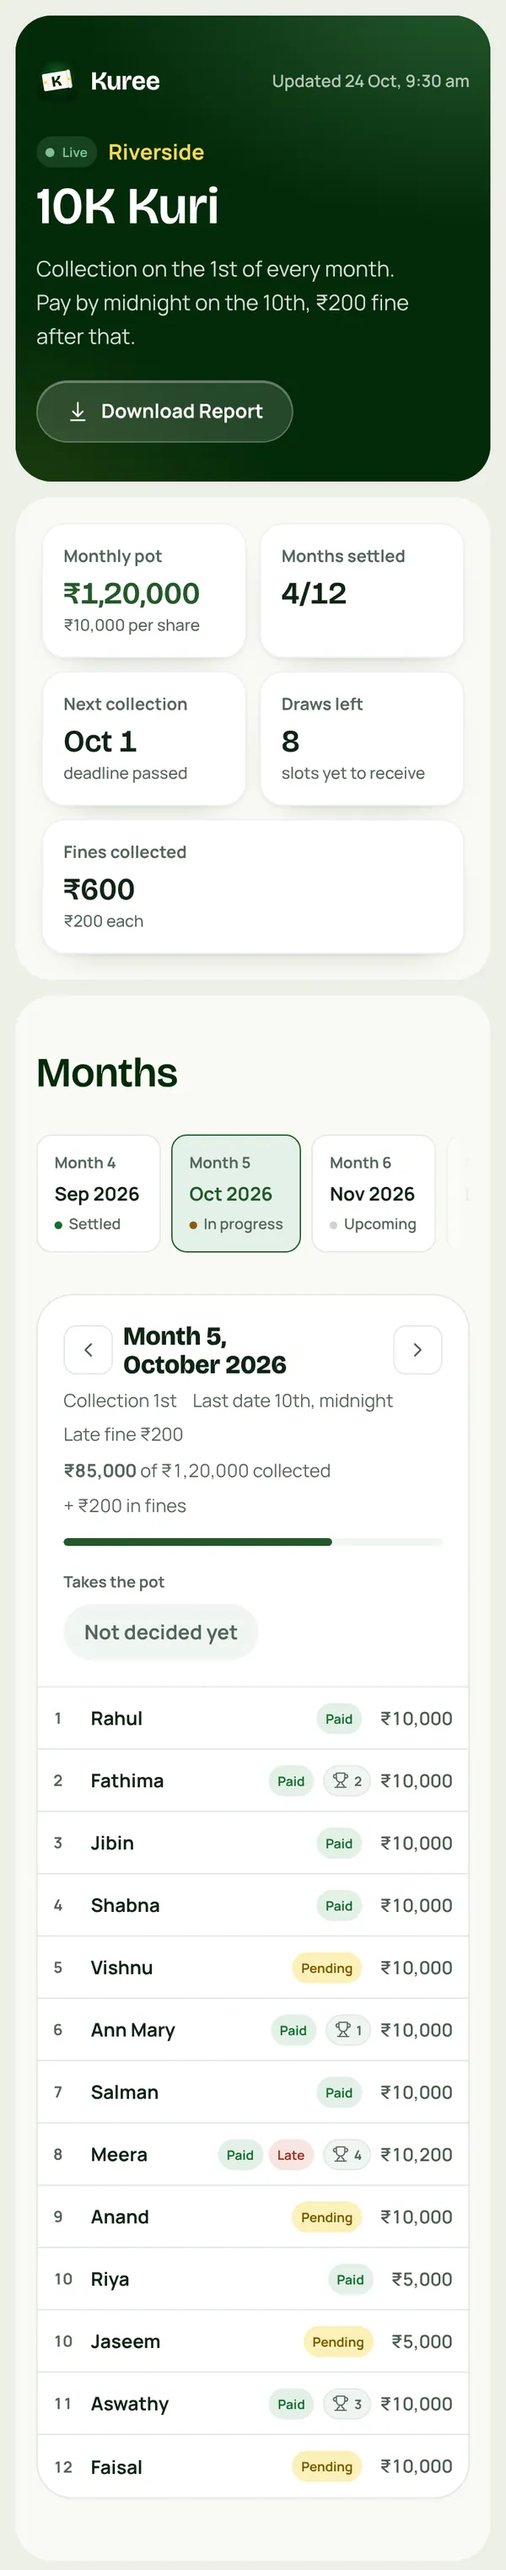
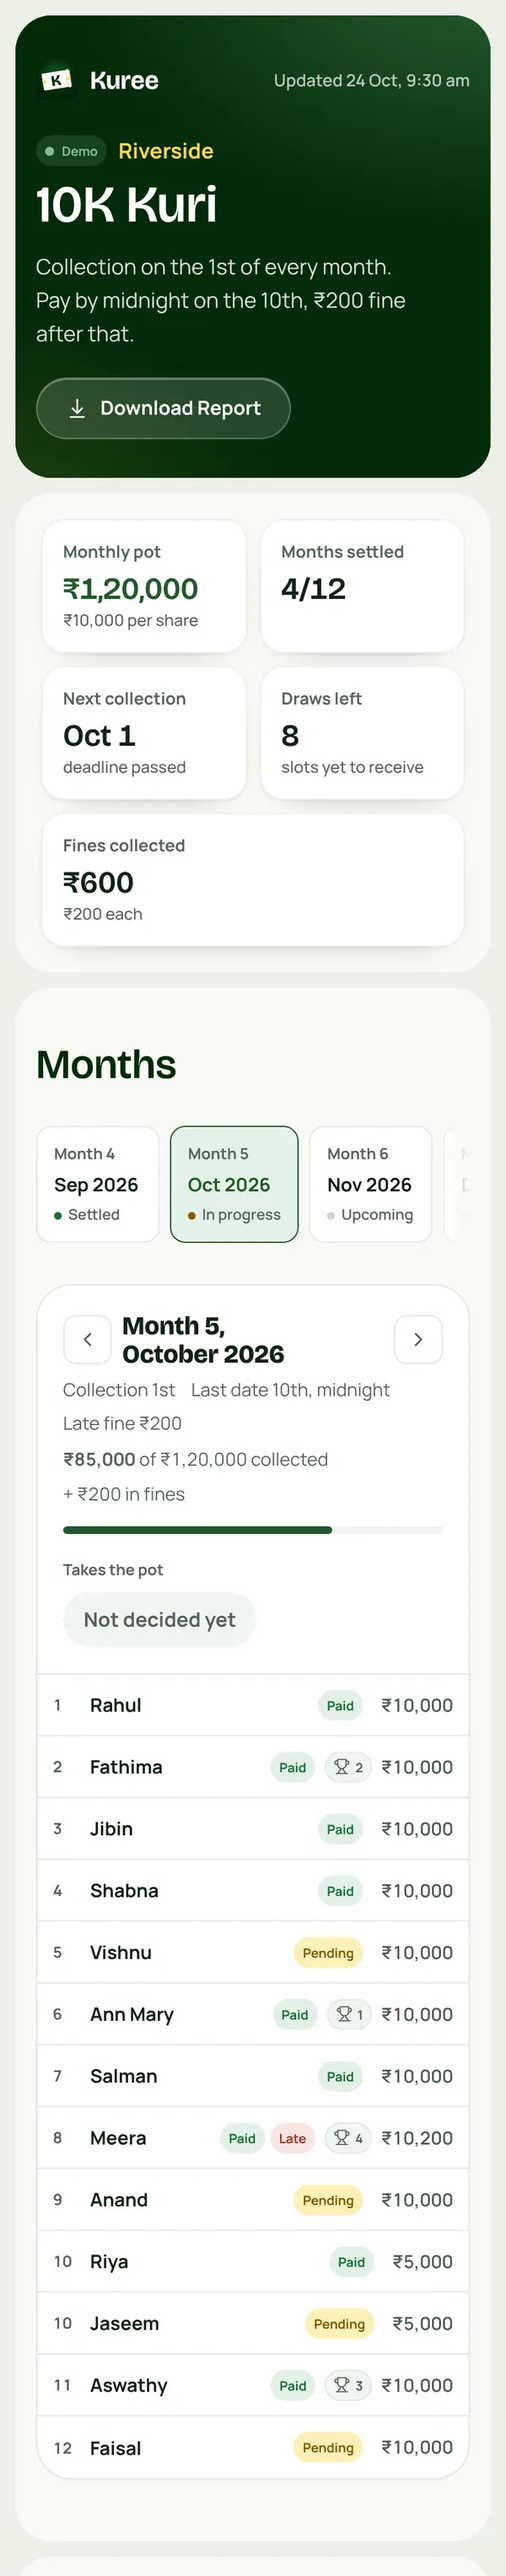
Members' page picture shows the Demo badge
Claude-Session: https://claude.ai/code/session_01Sb4k224acfZHz9i2Z4zLUu

diff --git a/web/home.html b/web/home.html
@@ -312,7 +312,7 @@
       <a class="phone phone--link" href="/k/demo" aria-label="Open the demo members' page">
         <div class="phone__screen">
           <div class="web__top"></div>
-          <div class="scroller"><img src="/assets/members.webp" alt="The members' page for Riverside 10K Kuri: this month's collection, who paid, and the months ahead" width="600" height="3046" loading="lazy" decoding="async"></div>
+          <div class="scroller"><img src="/assets/members.webp" alt="The members' page for Riverside 10K Kuri: this month's collection, who paid, and the months ahead" width="600" height="3053" loading="lazy" decoding="async"></div>
           <div class="web__bar"><span class="web__url"><svg class="ic" aria-hidden="true"><use href="#i-lock"/></svg>kuree.skifi.co</span></div>
           <div class="sb"><b>9:41</b><span class="sb__sys"><svg viewBox="0 0 18 12"><rect x="0" y="8" width="3" height="4" rx="1"/><rect x="5" y="5.5" width="3" height="6.5" rx="1"/><rect x="10" y="3" width="3" height="9" rx="1"/><rect x="15" y="0" width="3" height="12" rx="1"/></svg><svg class="wifi" viewBox="0 0 16 12"><path d="M1.4 4.7a9.6 9.6 0 0 1 13.2 0M3.9 7.4a6 6 0 0 1 8.2 0M6.5 10.1a2.3 2.3 0 0 1 3 0" stroke-width="1.9" stroke-linecap="round"/></svg><svg class="bat" viewBox="0 0 27 13"><rect x=".6" y=".6" width="22.8" height="11.8" rx="3.4" fill="none" stroke="currentColor" stroke-opacity=".4" stroke-width="1.2"/><rect x="2.4" y="2.4" width="19.2" height="8.2" rx="2"/><path d="M25 4.4v4.2a2.3 2.3 0 0 0 0-4.2z" opacity=".45"/></svg></span></div><i class="island"></i>
         </div>
